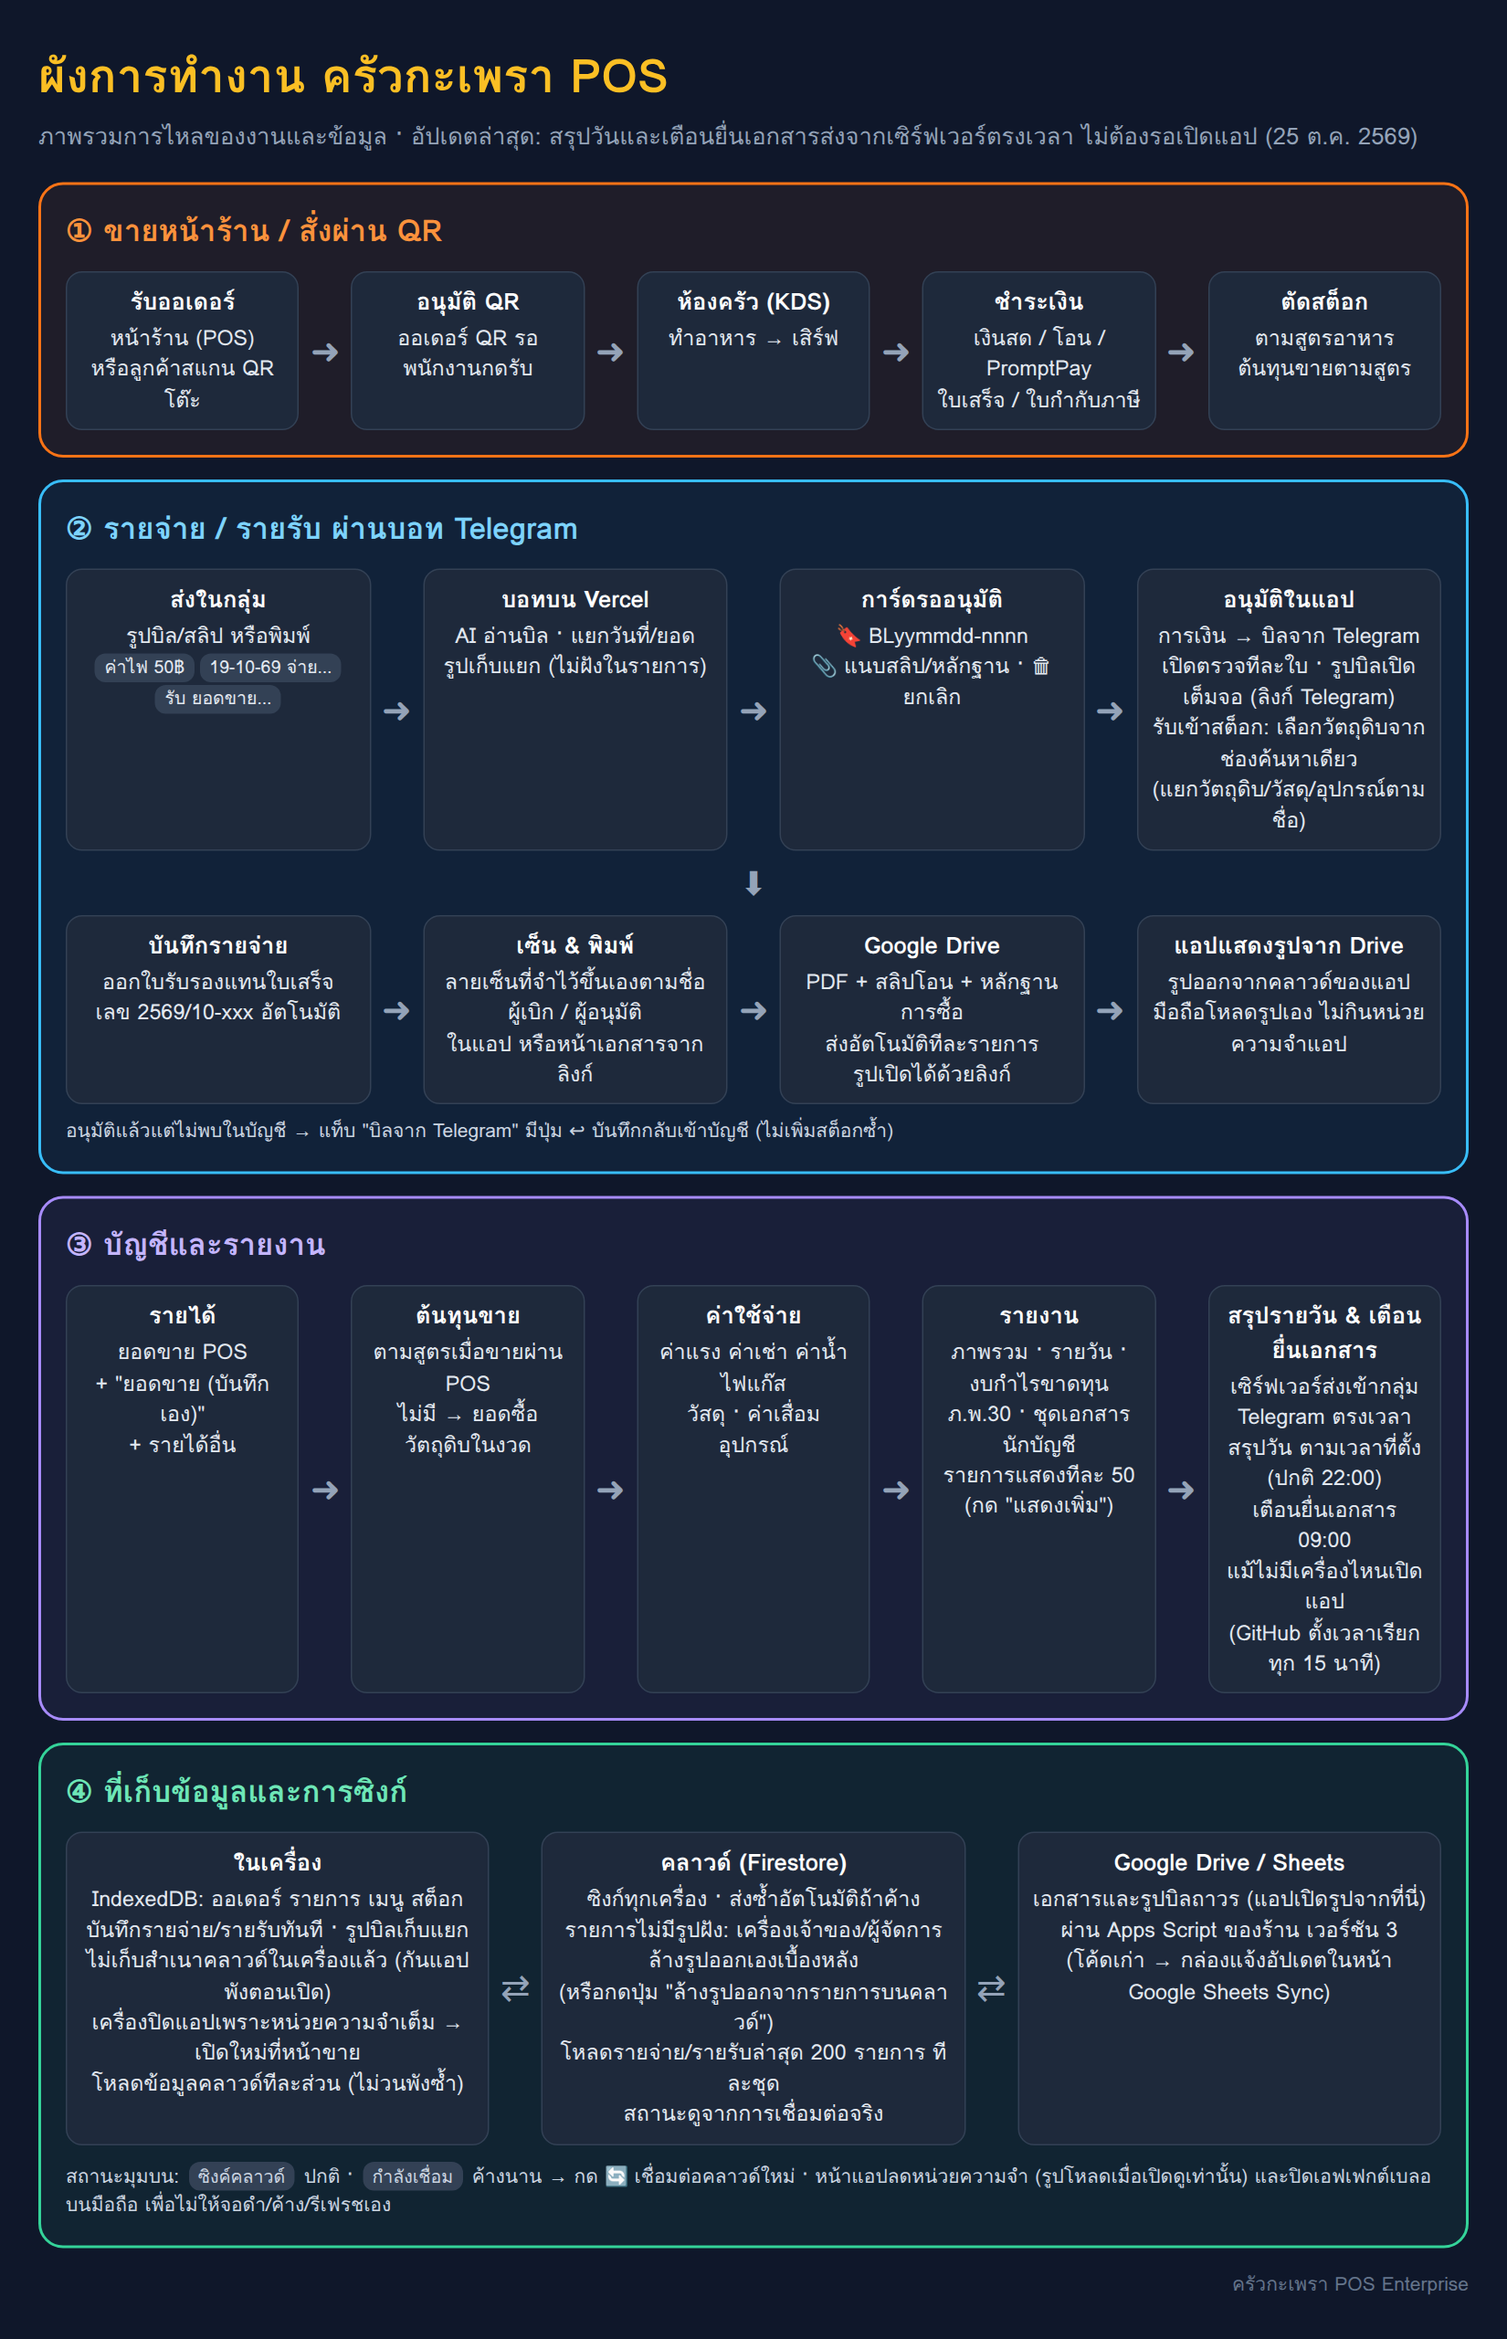
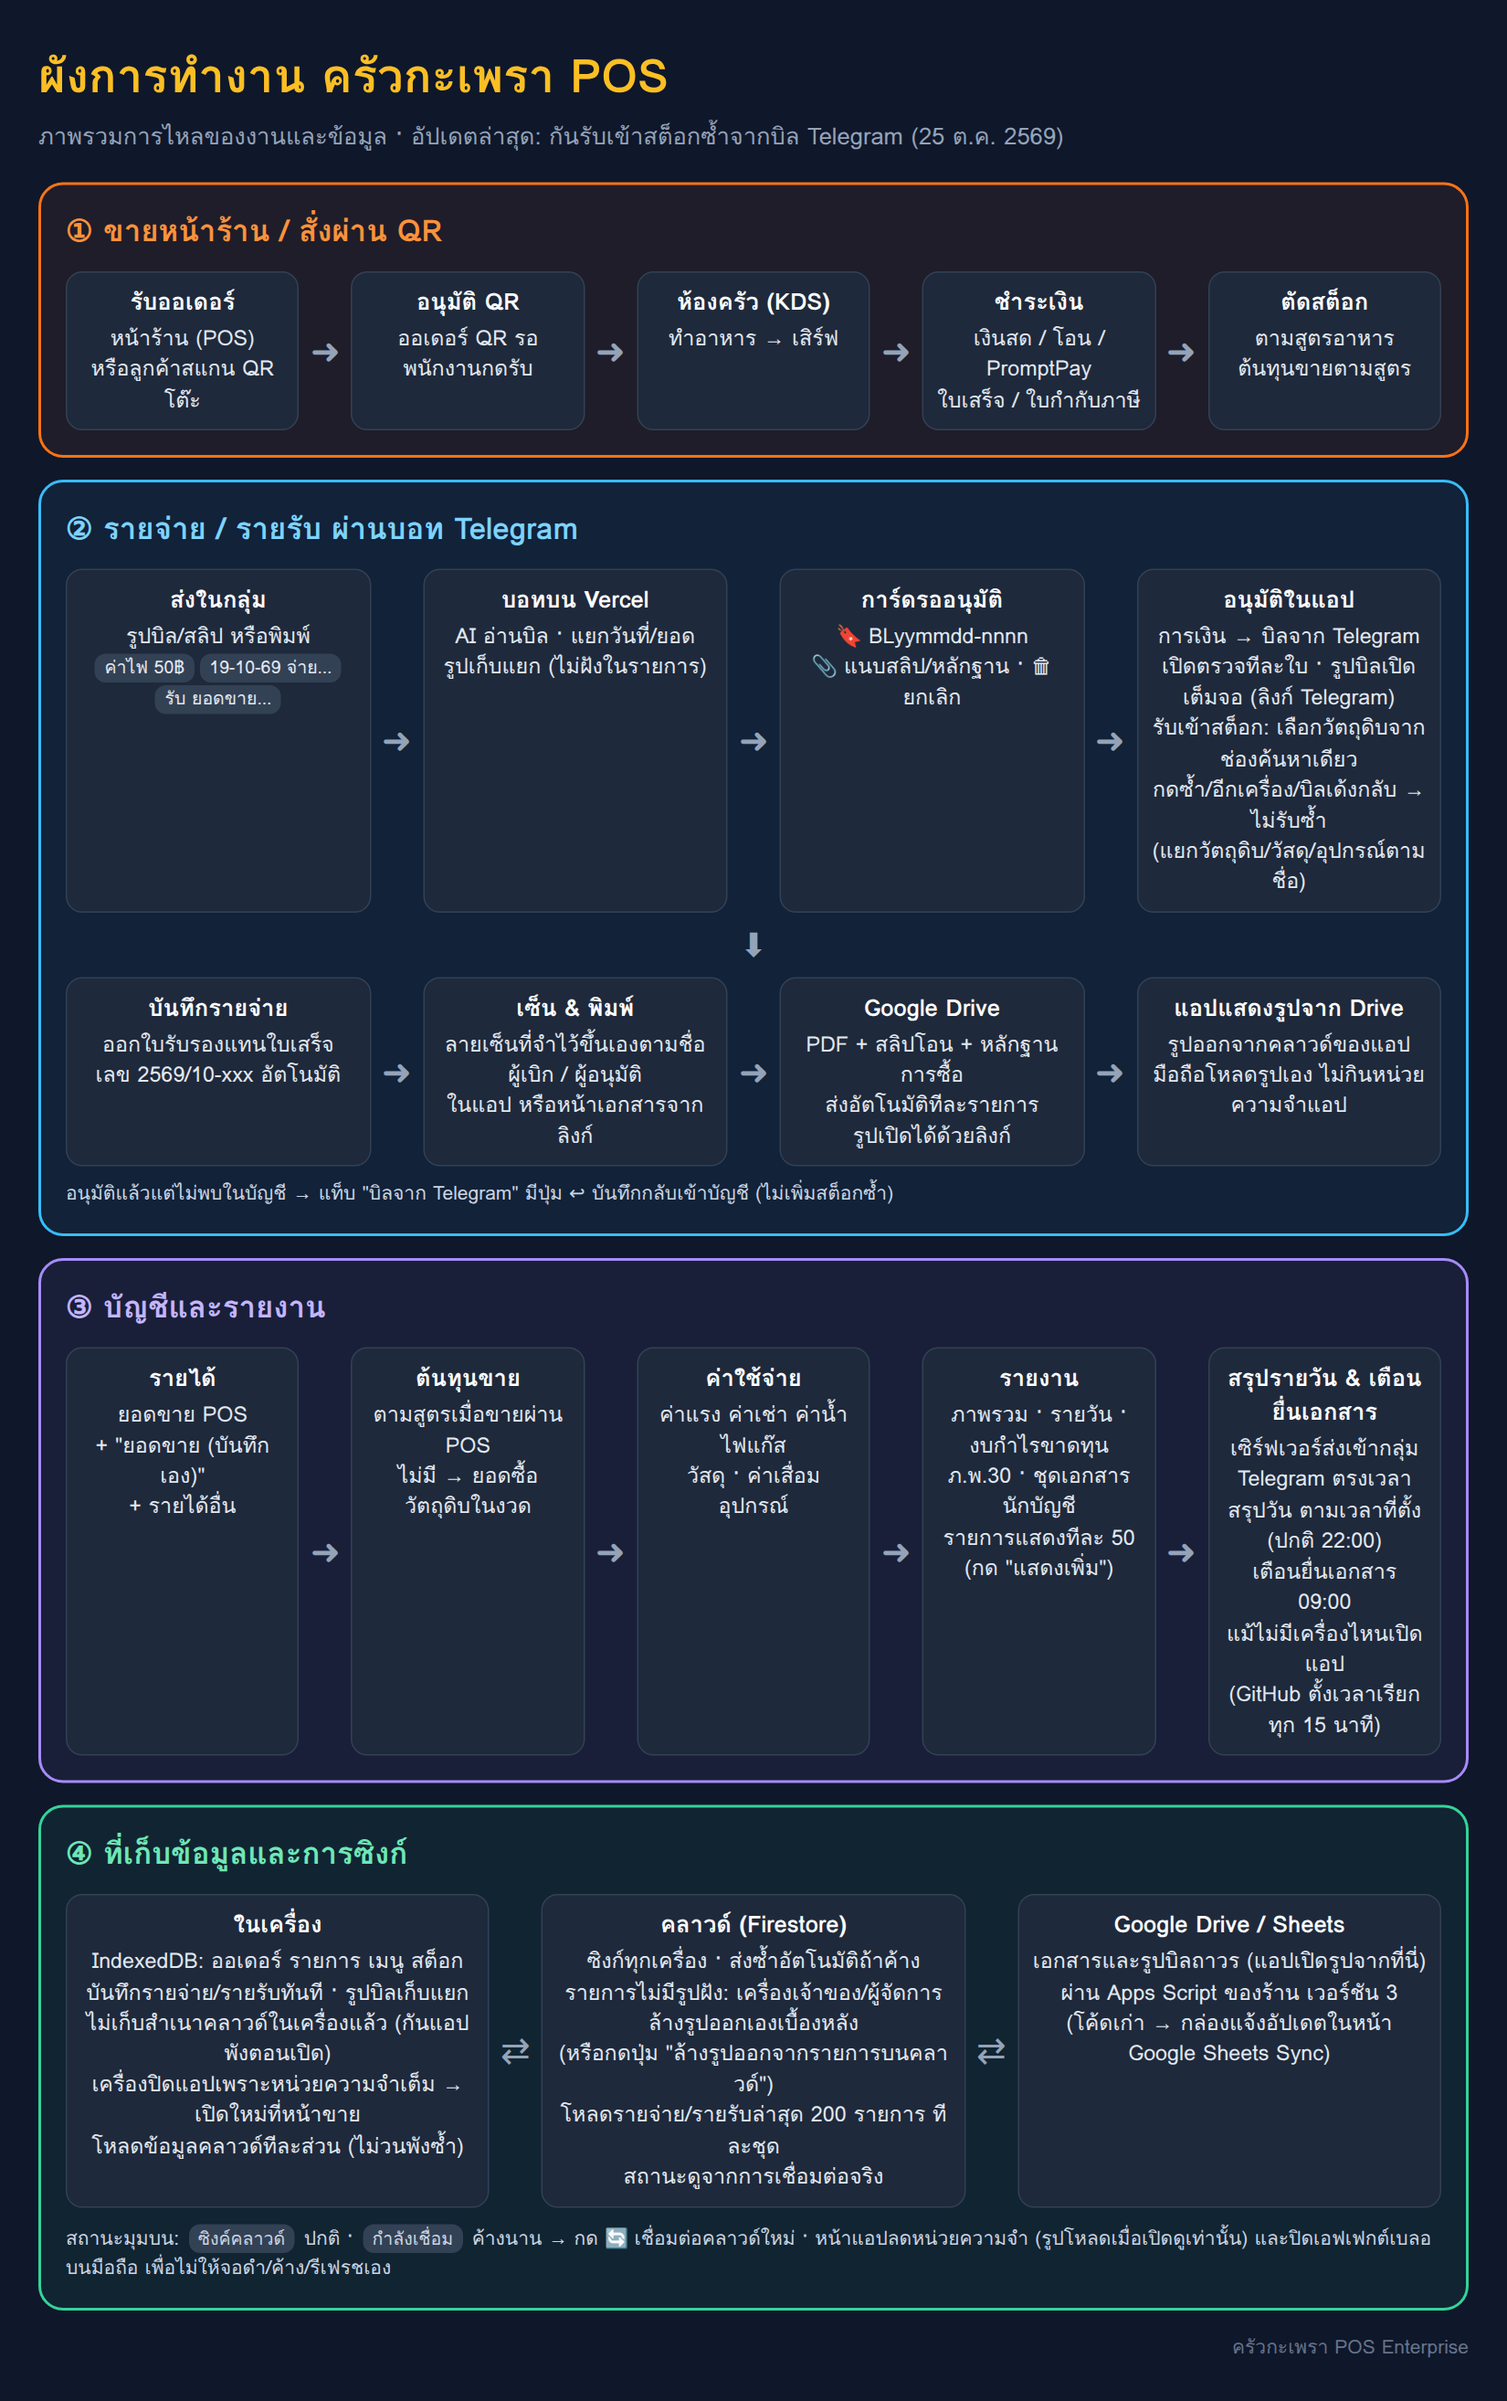
Telegram bills: never receive the same goods into stock twice
The same bill's goods went into stock twice (shallots and chilli). A tap
was not blocked while the first was still saving, and a bill shown
again (an older cloud copy, another device) could be received again.

- A second tap while one is saving is ignored (approve and receive)
- The bill is claimed in the cloud before its goods go in (one device,
  once); unanswered after 8 seconds, this device's guards still hold
- Bills received on this device are remembered and not shown again

Claude-Session: https://claude.ai/code/session_01Gq3UvYW4wv3hsVCXoh5wxy

diff --git a/src/components/telegram/TelegramInboxPanel.tsx b/src/components/telegram/TelegramInboxPanel.tsx
@@ -1,4 +1,4 @@
-import React, { useEffect, useMemo, useState } from 'react';
+import React, { useEffect, useMemo, useRef, useState } from 'react';
 import { AlertTriangle, CheckCircle2, ImageIcon, Loader2, Package, RefreshCw, Send, XCircle } from 'lucide-react';
 import type { ExpenseCategory, IncomeCategory, Ingredient, PendingReceipt } from '../../types';
 import { usePOS } from '../../context/POSContext';
@@ -14,6 +14,7 @@ import { guessStockType, stockTypeForExpenseCategory, stockTypeLabel } from '../
 import { allocateCosts, BillItem, buildIntakeRows, hasTarget, IntakeRow, matchIngredient, parseItemsFromText } from '../../utils/stockIntake';
 import { nextSubstituteNo } from '../../utils/expenseDocNo';
 import { readTelegramReceipt } from './TelegramInboxPoller';
+import { claimOnce } from '../../services/firebaseService';
 
 type Form = {
   kind: 'expense' | 'income';
@@ -164,7 +165,38 @@ export const TelegramInboxPanel: React.FC<{ incomeLabels: Record<IncomeCategory,
   const vatRate = vatRateOf(settings);
   const token = getStoredCredentials().telegramToken;
 
-  const waiting = useMemo(() => items.filter(p => p.status === 'pending' || p.status === 'failed' || p.status === 'reading' || stockOnly(p)), [items]);
+  // Bills whose goods went into stock on this device. A second tap, the bill shown again by an older
+  // cloud copy, or another device must never put the same goods in twice
+  const DONE_KEY = 'POS_TG_STOCK_DONE';
+  const [doneIds, setDoneIds] = useState<string[]>(() => {
+    try {
+      return JSON.parse(localStorage.getItem(DONE_KEY) || '[]') || [];
+    } catch {
+      return [];
+    }
+  });
+  const markDone = (id: string) =>
+    setDoneIds(prev => {
+      const next = [...prev.filter(x => x !== id), id].slice(-300);
+      try {
+        localStorage.setItem(DONE_KEY, JSON.stringify(next));
+      } catch {
+        // kept for this visit
+      }
+      return next;
+    });
+  const handling = useRef(new Set<string>());
+  /** This device receives the bill's goods (claimed in the cloud first); false: received already */
+  const claimStock = async (p: PendingReceipt) => {
+    if (doneIds.includes(p.id) || p.stockAdded?.length) return false;
+    // Offline or the cloud cannot be asked: received here (this device's own guards still hold)
+    return (await claimOnce(currentBranch.id, `tgstock_${p.id}`)) !== false;
+  };
+
+  const waiting = useMemo(
+    () => items.filter(p => p.status === 'pending' || p.status === 'failed' || p.status === 'reading' || (stockOnly(p) && !doneIds.includes(p.id))),
+    [items, doneIds]
+  );
   // The bill being reviewed (the first one waiting until another is chosen)
   const [chosenId, setOpenId] = useState<string | null>(null);
   const openId = chosenId && waiting.some(p => p.id === chosenId) ? chosenId : waiting[0]?.id || null;
@@ -314,11 +346,14 @@ export const TelegramInboxPanel: React.FC<{ incomeLabels: Record<IncomeCategory,
       setError('กรอกรายการ วันที่ และยอดเงินให้ครบก่อนอนุมัติ');
       return;
     }
-    if (items.find(x => x.id === p.id)?.status === 'approved') return;
+    if (items.find(x => x.id === p.id)?.status === 'approved' || handling.current.has(p.id)) return;
     if (receivesStock(f)) {
       const left = stockRows(p, f).filter(r => r.label && (!hasTarget(r) || !r.selected || !(r.quantity > 0)));
       if (left.length && !window.confirm(`${left.map(r => r.label).join(', ')} จะไม่เข้าสต็อก (ยังไม่ได้เลือกวัตถุดิบ/จำนวน)\nอนุมัติต่อหรือไม่?`)) return;
     }
+    // A second tap while this one is still saving is ignored
+    if (handling.current.has(p.id)) return;
+    handling.current.add(p.id);
     setBusy(p.id);
     setError(null);
     try {
@@ -372,7 +407,9 @@ export const TelegramInboxPanel: React.FC<{ incomeLabels: Record<IncomeCategory,
         });
       }
       const docLine = f.kind === 'expense' && !f.includeVat ? `\n📄 ใบรับรองแทนใบเสร็จ ${nextSubstituteNo(expenses, f.date)}` : '';
-      const { stockAdded, stockText } = receivesStock(f) ? receiveStock(p, f) : { stockAdded: undefined, stockText: '' };
+      const stocked = receivesStock(f) && (await claimStock(p));
+      const { stockAdded, stockText } = stocked ? receiveStock(p, f) : { stockAdded: undefined, stockText: '' };
+      if (stocked) markDone(p.id);
       const base = p.data || { vendorName: '', warnings: [], verified: false, confidenceScore: 0, vatAmount: 0, netAmount: 0 };
       patch(p.id, {
         status: 'approved',
@@ -386,6 +423,7 @@ export const TelegramInboxPanel: React.FC<{ incomeLabels: Record<IncomeCategory,
       });
       reply(p, `✅ อนุมัติแล้วโดย ${currentUser?.name || 'ผู้จัดการ'}${p.billNo ? ` · 🔖 ${p.billNo}` : ''}\nบันทึกเป็น${f.kind === 'expense' ? 'ค่าใช้จ่าย' : 'รายรับ'} ${f.title.trim()} ${baht(f.amount)}${docLine}${stockText}`);
     } finally {
+      handling.current.delete(p.id);
       setBusy(null);
     }
   };
@@ -441,7 +479,8 @@ export const TelegramInboxPanel: React.FC<{ incomeLabels: Record<IncomeCategory,
   };
 
   /** Goods of an entry the bot recorded: into stock (the expense is already in the books) */
-  const receiveOnly = (p: PendingReceipt) => {
+  const receiveOnly = async (p: PendingReceipt) => {
+    if (handling.current.has(p.id)) return;
     const f = form(p);
     const rows = stockRows(p, f);
     if (!rows.some(r => r.selected && hasTarget(r) && r.quantity > 0)) {
@@ -450,10 +489,26 @@ export const TelegramInboxPanel: React.FC<{ incomeLabels: Record<IncomeCategory,
     }
     const left = rows.filter(r => r.label && (!hasTarget(r) || !r.selected || !(r.quantity > 0)));
     if (left.length && !window.confirm(`${left.map(r => r.label).join(', ')} จะไม่เข้าสต็อก (ยังไม่ได้เลือกวัตถุดิบ/จำนวน)\nรับเข้าต่อหรือไม่?`)) return;
+    // A second tap while this one is still saving is ignored
+    if (handling.current.has(p.id)) return;
+    handling.current.add(p.id);
+    setBusy(p.id);
     setError(null);
-    const { stockAdded, stockText } = receiveStock(p, f);
-    patch(p.id, { stockPending: false, stockAdded });
-    reply(p, `📦 รับเข้าสต็อกแล้วโดย ${currentUser?.name || 'ผู้จัดการ'} (${f.title.trim()})${stockText}`);
+    try {
+      if (!(await claimStock(p))) {
+        patch(p.id, { stockPending: false });
+        markDone(p.id);
+        setError('บิลนี้รับเข้าสต็อกไปแล้ว (ไม่รับซ้ำ)');
+        return;
+      }
+      const { stockAdded, stockText } = receiveStock(p, f);
+      markDone(p.id);
+      patch(p.id, { stockPending: false, stockAdded });
+      reply(p, `📦 รับเข้าสต็อกแล้วโดย ${currentUser?.name || 'ผู้จัดการ'} (${f.title.trim()})${stockText}`);
+    } finally {
+      handling.current.delete(p.id);
+      setBusy(null);
+    }
   };
 
   const skipStock = (p: PendingReceipt) => {
@@ -798,7 +853,7 @@ export const TelegramInboxPanel: React.FC<{ incomeLabels: Record<IncomeCategory,
                 <div className="flex flex-wrap gap-2 pt-1">
                   <button
                     type="button"
-                    disabled={!canApprove}
+                    disabled={!canApprove || busy === p.id}
                     onClick={() => receiveOnly(p)}
                     className="h-11 px-5 rounded-xl bg-emerald-600 hover:bg-emerald-500 text-white font-bold flex items-center gap-1.5 disabled:opacity-40"
                   >

diff --git a/docs/workflow/flow.html b/docs/workflow/flow.html
@@ -17,7 +17,7 @@ h1{margin:0 0 4px;font-size:34px;color:#fbbf24}.sub{color:#94a3b8;font-size:17px
 .foot{color:#64748b;font-size:14px;margin-top:6px;text-align:right}
 </style></head><body>
 <h1>ผังการทำงาน ครัวกะเพรา POS</h1>
-<div class="sub">ภาพรวมการไหลของงานและข้อมูล · อัปเดตล่าสุด: สรุปวันและเตือนยื่นเอกสารส่งจากเซิร์ฟเวอร์ตรงเวลา ไม่ต้องรอเปิดแอป (25 ต.ค. 2569)</div>
+<div class="sub">ภาพรวมการไหลของงานและข้อมูล · อัปเดตล่าสุด: กันรับเข้าสต็อกซ้ำจากบิล Telegram (25 ต.ค. 2569)</div>
 
 <div class="lane pos"><h2>① ขายหน้าร้าน / สั่งผ่าน QR</h2>
 <div class="row">
@@ -33,7 +33,7 @@ h1{margin:0 0 4px;font-size:34px;color:#fbbf24}.sub{color:#94a3b8;font-size:17px
 <div class="box"><b>ส่งในกลุ่ม</b>รูปบิล/สลิป หรือพิมพ์<br><span class="tag">ค่าไฟ 50฿</span><span class="tag">19-10-69 จ่าย…</span><span class="tag">รับ ยอดขาย…</span></div><div class="ar">➜</div>
 <div class="box"><b>บอทบน Vercel</b>AI อ่านบิล · แยกวันที่/ยอด<br>รูปเก็บแยก (ไม่ฝังในรายการ)</div><div class="ar">➜</div>
 <div class="box"><b>การ์ดรออนุมัติ</b>🔖 BLyymmdd-nnnn<br>📎 แนบสลิป/หลักฐาน · 🗑 ยกเลิก</div><div class="ar">➜</div>
-<div class="box"><b>อนุมัติในแอป</b>การเงิน → บิลจาก Telegram<br>เปิดตรวจทีละใบ · รูปบิลเปิดเต็มจอ (ลิงก์ Telegram)<br>รับเข้าสต็อก: เลือกวัตถุดิบจากช่องค้นหาเดียว<br>(แยกวัตถุดิบ/วัสดุ/อุปกรณ์ตามชื่อ)</div>
+<div class="box"><b>อนุมัติในแอป</b>การเงิน → บิลจาก Telegram<br>เปิดตรวจทีละใบ · รูปบิลเปิดเต็มจอ (ลิงก์ Telegram)<br>รับเข้าสต็อก: เลือกวัตถุดิบจากช่องค้นหาเดียว<br>กดซ้ำ/อีกเครื่อง/บิลเด้งกลับ → ไม่รับซ้ำ<br>(แยกวัตถุดิบ/วัสดุ/อุปกรณ์ตามชื่อ)</div>
 </div>
 <div class="down">⬇</div>
 <div class="row">

diff --git a/src/services/firebaseService.ts b/src/services/firebaseService.ts
@@ -2871,3 +2871,29 @@ export async function savePublicSchedule(branchId: string, sealed: string): Prom
     return false;
   }
 }
+
+/**
+ * Claims a one-time job (e.g. putting one Telegram bill's goods into stock) for this device only.
+ * true: this device does it; false: it was done already; null: the cloud could not be asked.
+ */
+export async function claimOnce(branchId: string, job: string): Promise<boolean | null> {
+  if (!dbInstance || !navigator.onLine) return null;
+  const db = dbInstance;
+  try {
+    // A slow or dropped connection does not keep the person waiting: unanswered after 8 seconds
+    return await Promise.race([
+      waitForFirebaseAuth().then(() => {
+        const ref = doc(db, 'branches', branchId, 'status', `job_${job}`);
+        return runTransaction(db, async tx => {
+          if ((await tx.get(ref)).exists()) return false;
+          tx.set(ref, { day: 'done', claimedAt: new Date().toISOString() });
+          return true;
+        });
+      }),
+      new Promise<null>(resolve => setTimeout(() => resolve(null), 8000))
+    ]);
+  } catch (err) {
+    console.warn(`[Firebase Service] Could not claim ${job}:`, err);
+    return null;
+  }
+}
